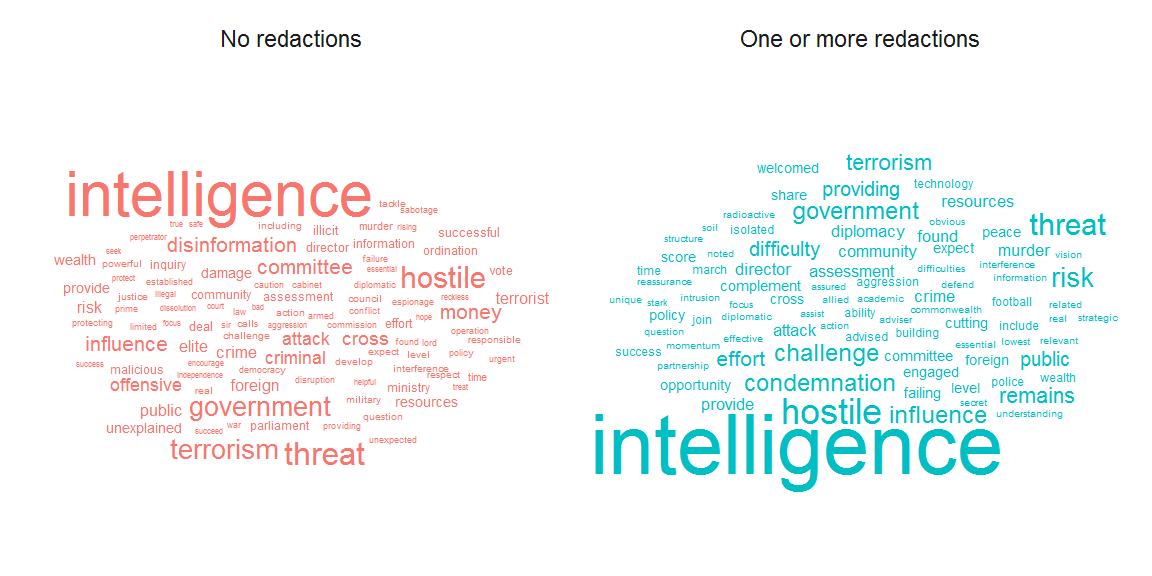
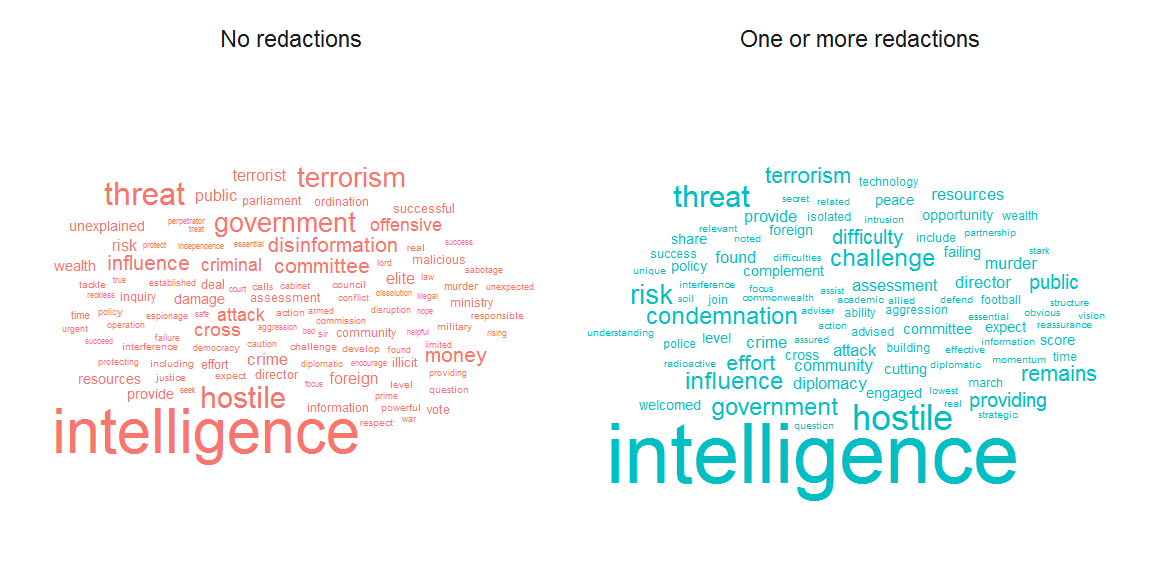
Fiddled with clouds

Changed region(s): [[0.5, 0.25, 0.9688, 0.875], [0.0312, 0.2812, 0.4688, 0.8125]]

diff --git a/index.html b/index.html
@@ -2843,36 +2843,10 @@ rr_sentiment &lt;- rr_sentiment %&gt;%
 
 allTheClouds &lt;- map(unique(rr_sentiment$sentiment)
                       %&gt;% na.omit(), makeWordCloud)
-allTheClouds</code></pre>
-<pre><code>## [[1]]</code></pre>
-<p><img src="index_files/figure-html/unnamed-chunk-26-1.png" width="672" /></p>
-<pre><code>## 
-## [[2]]</code></pre>
-<p><img src="index_files/figure-html/unnamed-chunk-26-2.png" width="672" /></p>
-<pre><code>## 
-## [[3]]</code></pre>
-<p><img src="index_files/figure-html/unnamed-chunk-26-3.png" width="672" /></p>
-<pre><code>## 
-## [[4]]</code></pre>
-<p><img src="index_files/figure-html/unnamed-chunk-26-4.png" width="672" /></p>
-<pre><code>## 
-## [[5]]</code></pre>
-<p><img src="index_files/figure-html/unnamed-chunk-26-5.png" width="672" /></p>
-<pre><code>## 
-## [[6]]</code></pre>
-<p><img src="index_files/figure-html/unnamed-chunk-26-6.png" width="672" /></p>
-<pre><code>## 
-## [[7]]</code></pre>
-<p><img src="index_files/figure-html/unnamed-chunk-26-7.png" width="672" /></p>
-<pre><code>## 
-## [[8]]</code></pre>
-<p><img src="index_files/figure-html/unnamed-chunk-26-8.png" width="672" /></p>
-<pre><code>## 
-## [[9]]</code></pre>
-<p><img src="index_files/figure-html/unnamed-chunk-26-9.png" width="672" /></p>
-<pre><code>## 
-## [[10]]</code></pre>
-<p><img src="index_files/figure-html/unnamed-chunk-26-10.png" width="672" /></p>
+
+library(patchwork)
+wrap_plots(allTheClouds, ncol = 2)</code></pre>
+<p><img src="index_files/figure-html/unnamed-chunk-26-1.png" width="960" /></p>
 <p>I’m not entirely convinced by the words picked out for each of those sentiments - maybe anger, disgust, and sadness show something interesting.</p>
 <pre class="r"><code>toView &lt;- c(&quot;anger&quot;, &quot;disgust&quot;, &quot;sadness&quot;)</code></pre>
 <p>First glue the word-level analysis back onto the sentences.</p>
@@ -3087,7 +3061,9 @@ allTheClouds</code></pre>
                     &quot;intelligence&quot;,
                     &quot;www.mi5&quot;)</code></pre>
 <p>(Note below how stop words have been removed too with <code>anti_join</code>).</p>
-<pre class="r"><code>rr_sentiment %&gt;%
+<pre class="r"><code>library(stringr)
+
+dat4clouds &lt;- rr_sentiment %&gt;%
   anti_join(stop_words) %&gt;%
   mutate(redacted = recode(redacted,
                            `0` = &quot;No redactions&quot;,
@@ -3095,15 +3071,22 @@ allTheClouds</code></pre>
   group_by(redacted, mentioned_services, word) %&gt;%
   summarise(n = n()) %&gt;%
   mutate(prop = n/sum(n)) %&gt;%
-  filter(prop &gt; .01 &amp; !(word %in% excluded_words)) %&gt;%
-  mutate(services_wrapped = stringr::str_wrap(mentioned_services,5)) %&gt;%
-  ggplot(aes(label = word, size = log1p(prop), color = redacted)) +
-    scale_size_area(max_size = 9) +
-    geom_text_wordcloud() +
-    theme_minimal() + 
-    facet_grid(cols = vars(redacted),
-               rows = vars(services_wrapped))</code></pre>
-<p><img src="index_files/figure-html/unnamed-chunk-34-1.png" width="576" /></p>
+  filter(n &gt;= 2 &amp; !(word %in% excluded_words)) %&gt;%
+  mutate(services_wrapped = str_wrap(mentioned_services,
+                                     5))</code></pre>
+<pre><code>## Joining, by = &quot;word&quot;</code></pre>
+<pre><code>## `summarise()` regrouping output by &#39;redacted&#39;, &#39;mentioned_services&#39; (override with `.groups` argument)</code></pre>
+<p>Now plot it:</p>
+<pre class="r"><code>dat4clouds %&gt;%
+  ggplot(aes(label = word,
+             size = prop,
+             color = redacted)) +
+      scale_size_area(max_size = 10) +
+      geom_text_wordcloud() +
+      theme_minimal() + 
+      facet_grid(cols = vars(redacted),
+                 rows = vars(services_wrapped))</code></pre>
+<p><img src="index_files/figure-html/unnamed-chunk-36-1.png" width="576" /></p>
 </div>
 </div>
 
